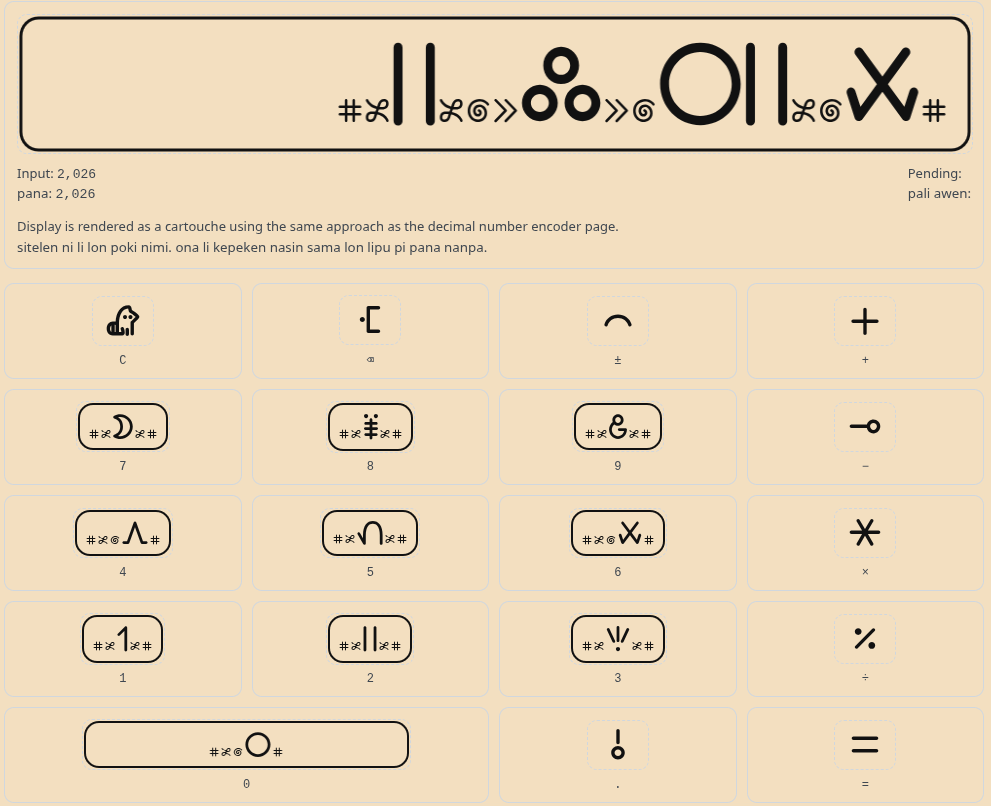
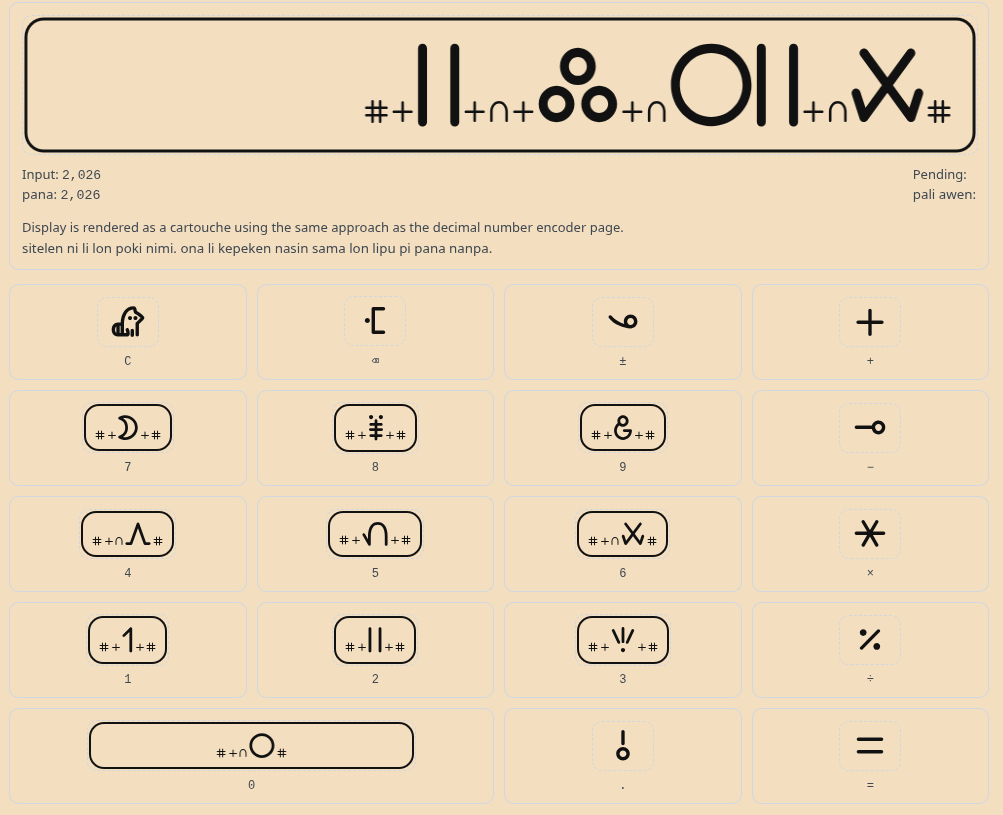
updated docs

diff --git a/docs/calculator.html b/docs/calculator.html
@@ -415,7 +415,7 @@
       clr: "kijetesantakalu",
       bk:  "monsi",
       dot: "o",
-      sign:"ike"
+      sign:"ona" //ike
     };
 
     const WORD_TO_UCSUR_CP = {
